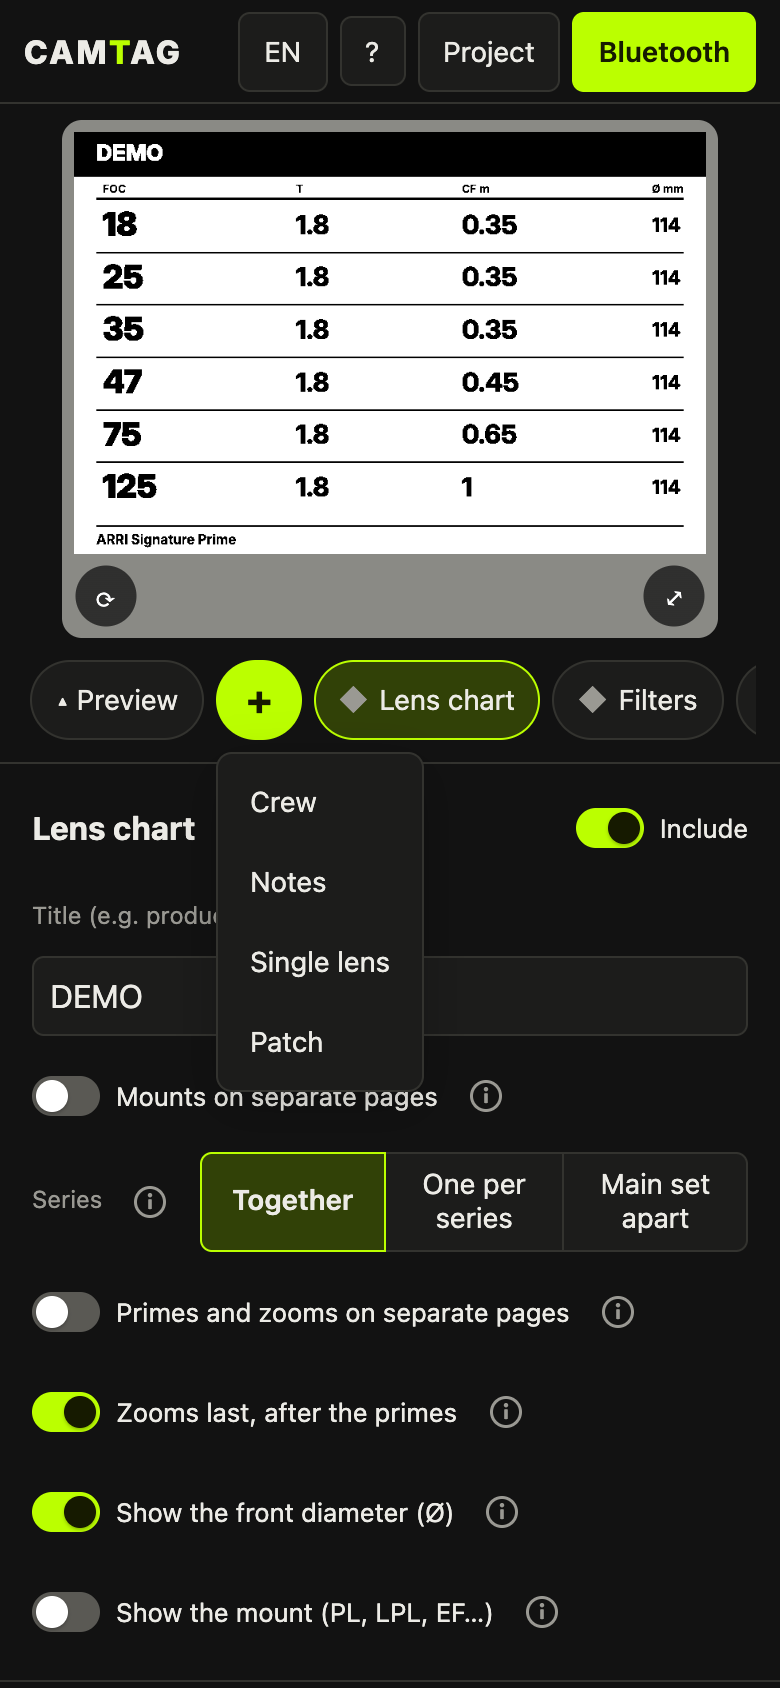
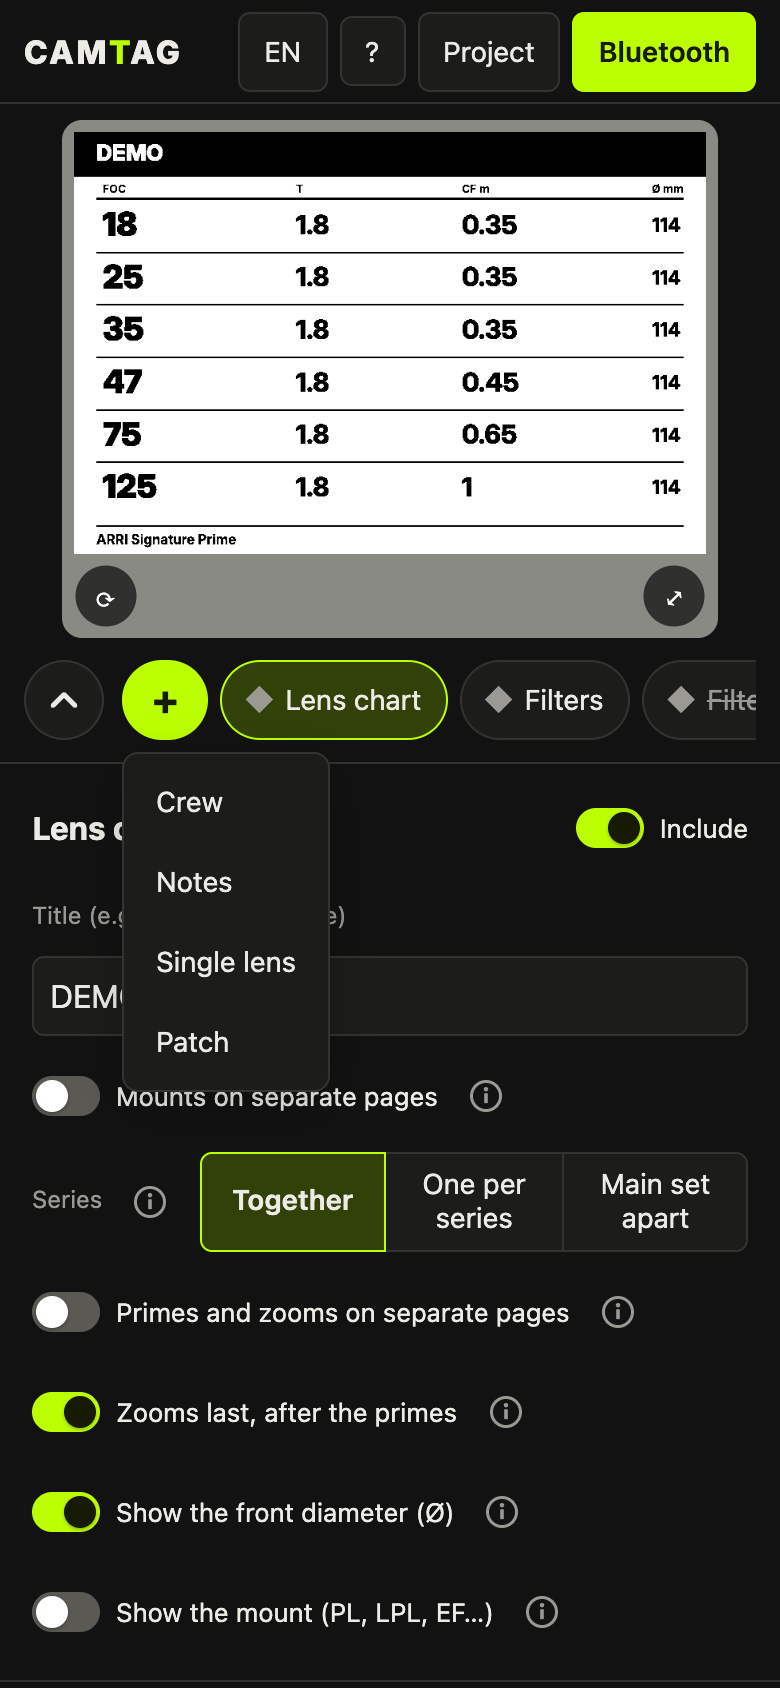
Telefono: freccia dell'anteprima fuori dalla striscia, testo grande
- L'anteprima si apre e chiude da una freccia tonda (#prevTog) a sinistra
  della striscia, fuori dallo scorrimento: non sparisce scorrendo le schermate.
- Le textarea di crew e note (.fill) arrivano almeno in fondo allo schermo e
  si allungano chiudendo l'anteprima; le altre partono da 200 px. growArea
  tiene ferma la pagina mentre ricalcola l'altezza.
- Manuali, schermate da telefono e CLAUDE.md aggiornati.

diff --git a/companion/index.html b/companion/index.html
@@ -303,11 +303,16 @@
     body:has(.stagecol.full) { overflow: hidden; }
     .stagecol { order: 1; }
     .work.nopreview .stagecol { display: none; }
-    #prevTog { display: block; flex: none; width: auto; border-radius: 999px; padding: 6px 12px; }
+    /* Freccia dell'anteprima fuori dalla striscia, così non scorre via con le schermate:
+       in su chiude, in giù apre. */
+    .screens { display: flex; align-items: center; gap: 6px; }
+    .screens .scr-row { flex: 1; min-width: 0; }
+    #prevTog { display: flex; align-items: center; justify-content: center; flex: none; width: 40px; height: 40px; padding: 0; border-radius: 999px; }
+    #prevTog svg { transition: transform .15s; }
+    #prevTog[aria-expanded="false"] svg { transform: rotate(180deg); }
     /* "+" subito dopo l'anteprima, sempre in vista anche con tante schermate, e nel verde. */
     #addBtn { order: -1; background: var(--accent); color: var(--accent-ink); border-color: var(--accent); font-size: 20px; font-weight: 700;
               line-height: 1; padding: 0 14px; }
-    #prevTog { order: -2; }
     .screens { order: 2; }
     /* Il simulatore serve da computer: sul telefono resta solo l'anteprima. */
     #modeRow, .pbar, #previewNote { display: none; }
@@ -322,6 +327,7 @@
     .sec:not(.sub) > summary { flex-wrap: wrap; row-gap: 0; }
     .sec:not(.sub) > summary > .sec-s { flex: 1 0 100%; text-align: left; padding-left: 18px; margin-top: -4px; }
     #editor input[type=text], #editor input[type=number], #editor input[type=search], #editor textarea, #editor select { background: var(--panel); }
+    #editor textarea { min-height: 200px; }
     /* Le liste del database (lenti, vetri) non scorrono per conto loro: sotto il dito scorre sempre la pagina. */
     .db { max-height: none; overflow: visible; }
     .db .grp { position: static; }
@@ -411,8 +417,8 @@
   <div class="work">
     <section class="panel screens">
       <h2>Schermate</h2>
+      <button id="prevTog" aria-expanded="true" title="Nascondi o mostra l'anteprima" aria-label="Nascondi o mostra l'anteprima"><svg viewBox="0 0 24 24" width="22" height="22" aria-hidden="true"><path d="M6 15l6-6 6 6" fill="none" stroke="currentColor" stroke-width="2.6" stroke-linecap="round" stroke-linejoin="round"/></svg></button>
       <div class="scr-row">
-        <button id="prevTog" aria-expanded="true" title="Nascondi o mostra l'anteprima"></button>
         <ul id="list"></ul>
         <button id="addBtn" title="Aggiungi una schermata">+<span class="l"> Aggiungi</span></button>
       </div>
@@ -2574,9 +2580,9 @@ function cardEditor(ed, c, idx) {
     ed.append(field(c, 'Filettatura filtri (opzionale, es. M82)', 'thread'));
     ed.append(field(c, 'Nota in basso (opzionale)', 'notes'));
   } else if (c.type === 'crew') {
-    ed.append(field(c, 'Titolo', 'title'), field(c, 'Una riga per persona — "Ruolo: Nome"', 'lines', 'textarea'));
+    ed.append(field(c, 'Titolo', 'title'), fillArea(field(c, 'Una riga per persona — "Ruolo: Nome"', 'lines', 'textarea')));
   } else if (c.type === 'notes') {
-    ed.append(field(c, 'Titolo', 'title'), field(c, 'Testo', 'body', 'textarea'));
+    ed.append(field(c, 'Titolo', 'title'), fillArea(field(c, 'Testo', 'body', 'textarea')));
   } else {
     imageControls(ed, c);
     ed.append(field(c, 'Inverti colori', 'invert', 'checkbox'), field(c, 'Didascalia (opzionale)', 'caption'));
@@ -2673,15 +2679,26 @@ function renderEditor() {
     const c = state.cards[sel.i];
     if (!c) { ed.append(h('div', { class: 'empty' }, 'Seleziona una schermata')); return; }
     cardEditor(ed, c, sel.i);
-  } finally { ed.querySelectorAll('textarea').forEach(growArea); }
+  } finally { growAll(); }
 }
 // Le textarea crescono con il testo (crew, note, scritta da spento): tutto il testo
 // resta in vista, senza una seconda barra di scorrimento dentro la pagina.
+// Sul telefono la textarea principale di una scheda (crew, note: .fill) arriva almeno
+// in fondo allo schermo, contando la parte fissa com'è ora: chiudendo l'anteprima
+// si allunga. innerHeight, non visualViewport: con la tastiera aperta non si accorcia.
 function growArea(ta) {
+  const y = scrollY;  // con 'auto' la pagina si accorcia un attimo e il browser la farebbe risalire
   ta.style.height = 'auto';
-  ta.style.height = `${ta.scrollHeight + ta.offsetHeight - ta.clientHeight}px`;
+  let h = ta.scrollHeight + ta.offsetHeight - ta.clientHeight;
+  if (innerWidth < 700 && ta.classList.contains('fill'))
+    h = Math.max(h, Math.floor(innerHeight - (ta.getBoundingClientRect().top + scrollY) - 44));  // 44 = margine sotto l'editor
+  ta.style.height = `${h}px`;
+  if (scrollY !== y) scrollTo(0, y);
 }
+function fillArea(fld) { fld.querySelector('textarea').classList.add('fill'); return fld; }
+function growAll() { document.querySelectorAll('#editor textarea').forEach(growArea); }
 document.addEventListener('input', e => { if (e.target.matches?.('#editor textarea')) growArea(e.target); });
+addEventListener('resize', growAll);
 
 function downscale(url, max = 1000) {
   return new Promise((res, rej) => {
@@ -2804,16 +2821,15 @@ function showPreview(on) {
 function paintPreview() {
   const on = !ui.prevHidden && !autoHid;
   $('.work').classList.toggle('nopreview', !on);
-  const b = $('#prevTog');
-  b.textContent = on ? t('▴ Anteprima') : t('▾ Anteprima');
-  b.setAttribute('aria-expanded', String(on));
+  $('#prevTog').setAttribute('aria-expanded', String(on));
   fitStage();
+  growAll();  // le textarea .fill seguono lo spazio lasciato dall'anteprima
 }
-// Con "▾ Anteprima" mentre si è tolta da sola, torna senza spostare l'editor.
+// Con la freccia mentre si è tolta da sola, torna senza spostare l'editor.
 $('#prevTog').onclick = () => autoHid ? setAutoHid(false) : showPreview(!!ui.prevHidden);
 // Sul telefono, con l'anteprima aperta, scorrendo l'editor verso il basso (almeno
 // AUTO_HIDE_PX di fila) l'anteprima si toglie di mezzo da sola (autoHid, non
-// salvato); torna quando si risale fino all'inizio dell'editor o con "▾ Anteprima".
+// salvato); torna quando si risale fino all'inizio dell'editor o con la freccia (#prevTog).
 // Risalire a metà non la riapre: nelle liste si scorre su e giù. In entrambi i casi
 // la pagina scorre di quanto cambia la parte fissa, così l'editor sotto il dito
 // non salta (per questo serve overflow-anchor: none, che farebbe lo stesso due volte).

diff --git a/companion/manual/index.html b/companion/manual/index.html
@@ -416,7 +416,7 @@
         <p class="intro">You prepare the cards in the <strong>web configurator</strong>, a page that opens in the browser of your phone or computer, with nothing to install: <a href="../">trunk-studio-production.github.io/camtag</a>. Here are the basics; every option has its explanation behind the ⓘ.</p></header>
       <h3>How it's laid out</h3>
       <ul class="parts">
-        <li>At the top, the <strong>preview</strong>: the screen as it will look on the X3. ⟳ turns it between landscape and portrait, ⤢ opens it full screen. On a phone it closes and reopens with <strong>Preview</strong>, the first button of the strip.</li>
+        <li>At the top, the <strong>preview</strong>: the screen as it will look on the X3. ⟳ turns it between landscape and portrait, ⤢ opens it full screen. On a phone it closes and reopens with the <strong>⌃</strong> arrow to the left of the strip, and it gets out of the way by itself when you scroll down the editor.</li>
         <li>Below it, the <strong>strip of screens</strong>: Lens chart, Filters, Filter list, the cards you add and Off. The order is the X3's, where screens are grouped by kind: <kbd>X</kbd> and <kbd>Y</kbd> move from one kind to the next, A–D page through it; struck-through screens aren't sent (turn them on with <strong>Include</strong>).</li>
         <li>Further down, the <strong>editor</strong> of the chosen screen.</li>
         <li>On a computer, next to Preview, there's the <strong>Simulator</strong>: try the buttons and the rotation as on the X3, before sending the cards.</li>
@@ -425,7 +425,7 @@
       <ol class="steps">
         <li><strong>The lenses.</strong> Open <strong>Lens chart</strong> and type the title, usually the production name. In <strong>Lens database</strong> search for brand, series or focal length (for example “signature 35”), tap the series to see its focal lengths, then <strong>+</strong> for one lens or <strong>+ all</strong> for the whole series. If the series comes in more than one mount, it asks which. Beyond 11 lenses the pages split by themselves.</li>
         <li><strong>The filters.</strong> In <strong>Filters</strong> tick the NDs and diopters in your kit and add the other glasses from the <strong>Glass catalog</strong>. In <strong>Matte box and starting values</strong> choose how many stages the matte box has and what's mounted: on set you change it from the X3 (<a href="#filters">Filter screen</a>, <a href="#editing">Editing the stages</a>).</li>
-        <li><strong>The other cards.</strong> With <strong>+</strong> (on a phone, the green button right after Preview) add <strong>Crew</strong>, <strong>Notes</strong>, <strong>Single lens</strong> or <strong>Patch</strong>, an image such as a logo or a QR code. Reorder them with ↑ and ↓ at the top of the editor.</li>
+        <li><strong>The other cards.</strong> With <strong>+</strong> (on a phone, the green button at the start of the screens strip) add <strong>Crew</strong>, <strong>Notes</strong>, <strong>Single lens</strong> or <strong>Patch</strong>, an image such as a logo or a QR code. Reorder them with ↑ and ↓ at the top of the editor.</li>
         <li><strong>When it's off.</strong> In <strong>Off</strong> choose what stays on the screen when you turn the X3 off: some text (a name, a contact) or an image.</li>
         <li><strong>Send the cards</strong> to the X3 with <strong>Bluetooth</strong>, as the <a href="#bluetooth">next section</a> explains.</li>
       </ol>

diff --git a/companion/manuale/index.html b/companion/manuale/index.html
@@ -416,7 +416,7 @@
         <p class="intro">Le card si preparano nel <strong>configuratore web</strong>, una pagina che si apre nel browser del telefono o del computer, senza installare nulla: <a href="../">trunk-studio-production.github.io/camtag</a>. Qui trovi le basi; ogni opzione ha la sua spiegazione dietro la ⓘ.</p></header>
       <h3>Com'è fatto</h3>
       <ul class="parts">
-        <li>In alto l'<strong>anteprima</strong>: la schermata come uscirà sull'X3. ⟳ la gira tra orizzontale e verticale, ⤢ la apre a tutto schermo. Sul telefono si richiude e si riapre con <strong>Anteprima</strong>, il primo pulsante della striscia.</li>
+        <li>In alto l'<strong>anteprima</strong>: la schermata come uscirà sull'X3. ⟳ la gira tra orizzontale e verticale, ⤢ la apre a tutto schermo. Sul telefono si richiude e si riapre con la freccia <strong>⌃</strong> a sinistra della striscia, e si toglie da sola quando scorri giù l'editor.</li>
         <li>Sotto, la <strong>striscia delle schermate</strong>: Lens chart, Filtri, Elenco filtri, le schede che aggiungi e Spento. L'ordine è quello dell'X3, dove le schermate sono raggruppate per tipo: <kbd>X</kbd> e <kbd>Y</kbd> passano da un tipo all'altro, A–D ne sfogliano le pagine; le schermate barrate non si mandano (si accendono con <strong>Includi</strong>).</li>
         <li>Più giù l'<strong>editor</strong> della schermata scelta.</li>
         <li>Sul computer, accanto ad Anteprima, c'è il <strong>Simulatore</strong>: provi i tasti e la rotazione come sull'X3, prima di mandare le card.</li>
@@ -425,7 +425,7 @@
       <ol class="steps">
         <li><strong>Le lenti.</strong> Apri <strong>Lens chart</strong> e scrivi il titolo, di solito il nome della produzione. In <strong>Database lenti</strong> cerca marca, serie o focale (per esempio “signature 35”), tocca la serie per vedere le focali, poi <strong>+</strong> per una lente o <strong>+ tutte</strong> per la serie intera. Se la serie esiste con più attacchi, ti chiede quale. Oltre le 11 lenti le pagine si dividono da sole.</li>
         <li><strong>I filtri.</strong> In <strong>Filtri</strong> spunta gli ND e le diottrie del kit e aggiungi gli altri vetri dal <strong>Catalogo vetri</strong>. In <strong>Mattebox e valori di partenza</strong> scegli quanti stadi ha il mattebox e cosa c'è montato: sul set lo cambi dall'X3 (<a href="#filtri">Schermata filtri</a>, <a href="#modifica">Modificare gli stadi</a>).</li>
-        <li><strong>Le altre schede.</strong> Con <strong>+</strong> (sul telefono è il pulsante verde subito dopo Anteprima) aggiungi <strong>Crew</strong>, <strong>Note</strong>, <strong>Lente singola</strong> o <strong>Patch</strong>, un'immagine come un logo o un QR. Si riordinano con ↑ e ↓ in cima all'editor.</li>
+        <li><strong>Le altre schede.</strong> Con <strong>+</strong> (sul telefono è il pulsante verde all'inizio della striscia delle schermate) aggiungi <strong>Crew</strong>, <strong>Note</strong>, <strong>Lente singola</strong> o <strong>Patch</strong>, un'immagine come un logo o un QR. Si riordinano con ↑ e ↓ in cima all'editor.</li>
         <li><strong>Da spento.</strong> In <strong>Spento</strong> scegli cosa resta sullo schermo quando spegni l'X3: una scritta (un nome, un contatto) o un'immagine.</li>
         <li><strong>Manda le card</strong> all'X3 con <strong>Bluetooth</strong>, come spiega la <a href="#bluetooth">sezione successiva</a>.</li>
       </ol>

diff --git a/companion/i18n.js b/companion/i18n.js
@@ -73,8 +73,6 @@ const I18N_EN = {
   "Lens chart e Filtri si generano da soli. L'ordine qui è l'ordine sul dispositivo.": 'Lens chart and Filters are generated automatically. The order here is the order on the device.',
   'Anteprima': 'Preview',
   "Nascondi o mostra l'anteprima": 'Hide or show the preview',
-  '▴ Anteprima': '▴ Preview',
-  '▾ Anteprima': '▾ Preview',
   'Simulatore': 'Simulator',
   'Orizzontale': 'Landscape',
   'Verticale': 'Portrait',

diff --git a/CLAUDE.md b/CLAUDE.md
@@ -52,8 +52,8 @@ costruttori di lenti e filtri nei dati vanno bene.
   Inter 800 con spaziatura 0,08 em e la T nel verde `--accent` (`.logo-t`), come in `install/` (l'interfaccia resta nel font di sistema).
   Barra e anteprima restano fisse mentre l'editor scorre: tre colonne da 1100 px,
   due da 700 (striscia delle schermate e anteprima a sinistra), sotto i 700
-  anteprima compatta in alto che si apre a tutto schermo e si richiude dal primo
-  pulsante della striscia (`ui.prevHidden`, aperta di partenza; scorrendo giù l'editor si toglie da sola, `autoHid`, e torna all'inizio dell'editor o da quel pulsante), senza zoom con le dita; `fitStage` tiene
+  anteprima compatta in alto che si apre a tutto schermo e si richiude dalla
+  freccia a sinistra della striscia (`#prevTog`, fuori dallo scorrimento; `ui.prevHidden`, aperta di partenza; scorrendo giù l'editor si toglie da sola, `autoHid`, e torna all'inizio dell'editor o dalla freccia), senza zoom con le dita; `fitStage` tiene
   anteprima e simulatore dentro lo schermo (il simulatore si scala). Nell'editor
   le sezioni richiudibili si fanno con `section()` e le spiegazioni stanno dietro
   una ⓘ (`info()`): in chiaro restano solo avvisi e stati vuoti. Le preferenze
